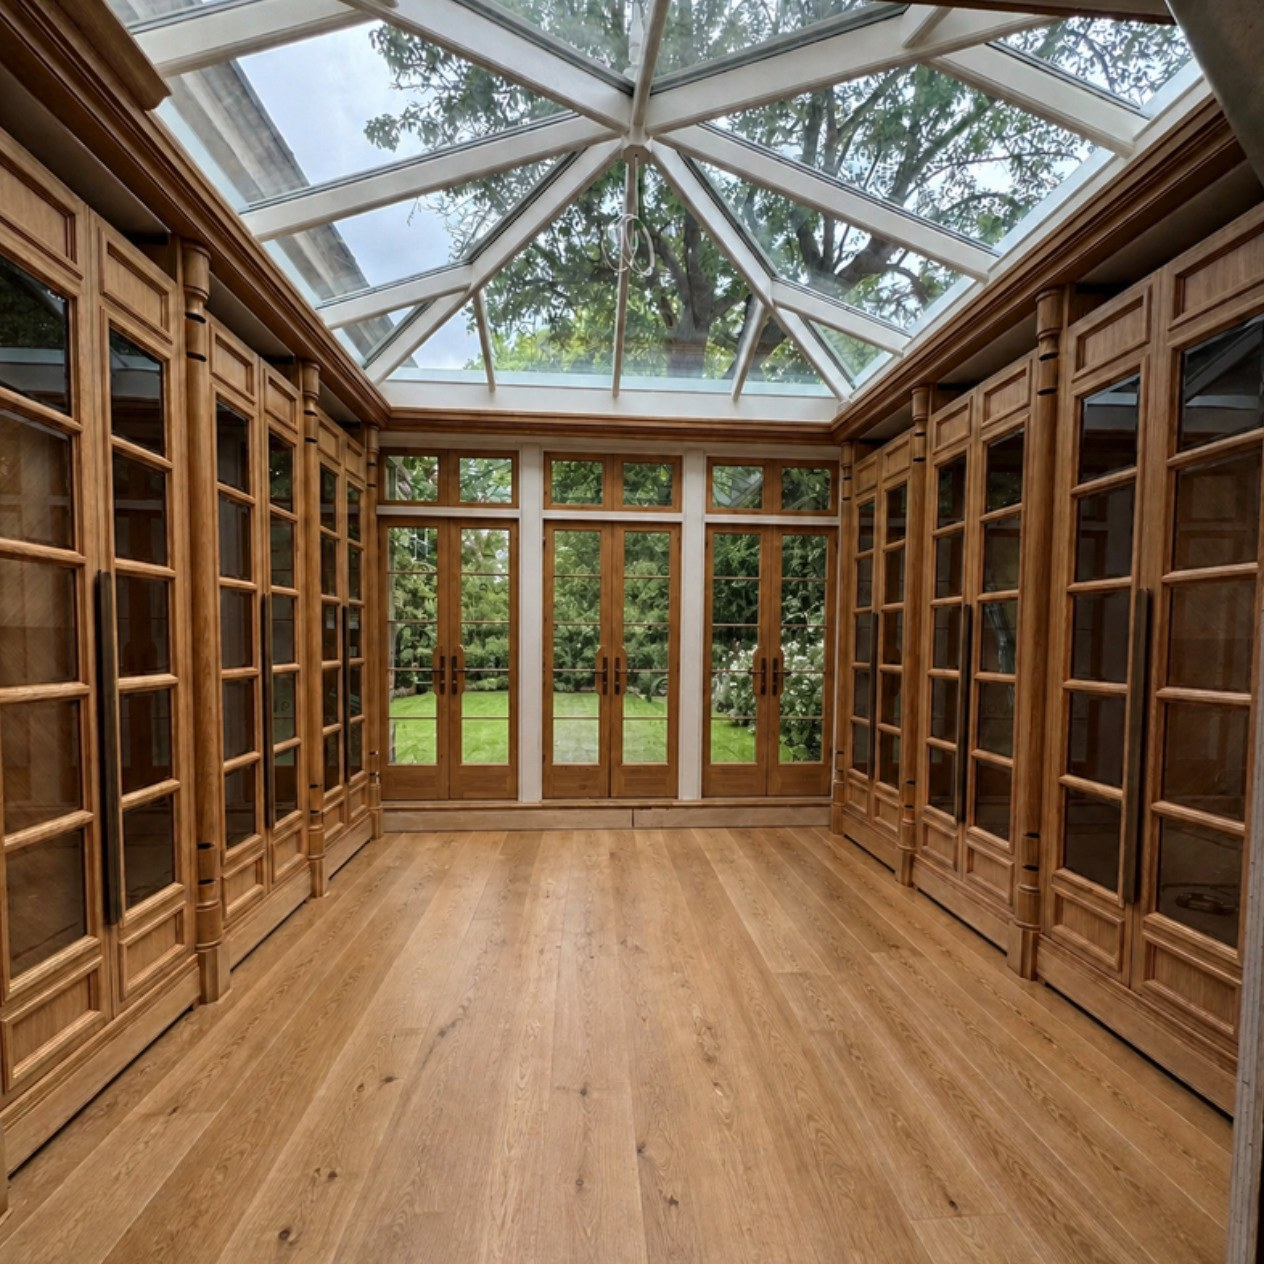
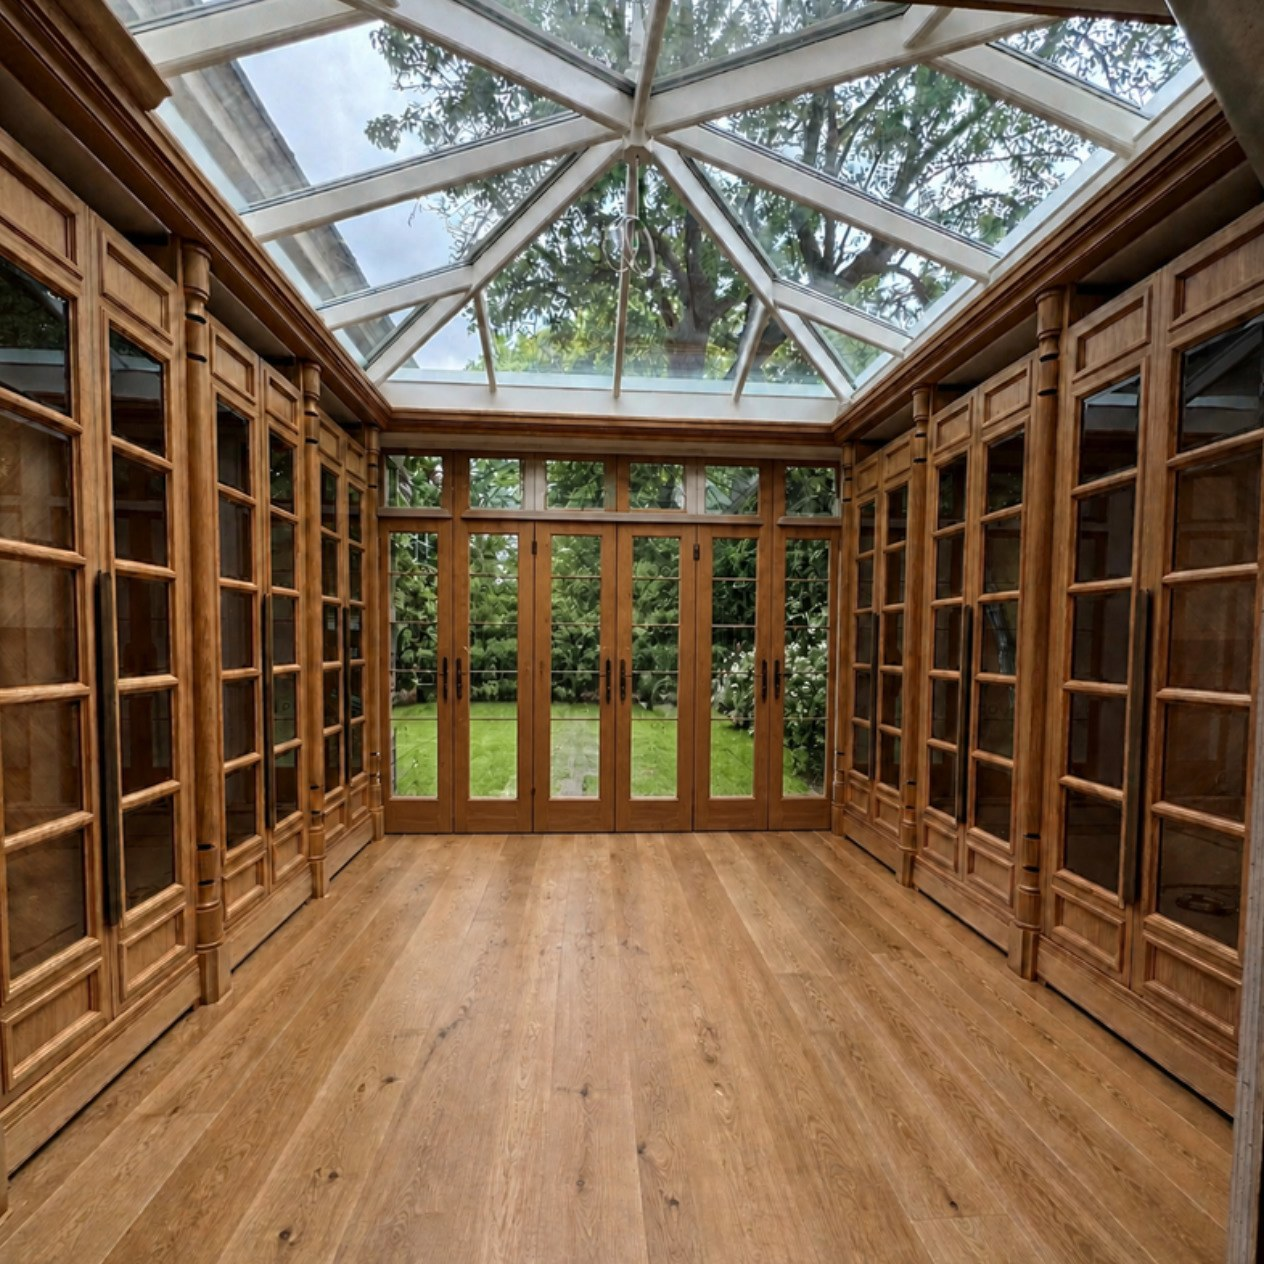
Conservatory photo: doors to floor level

diff --git a/index.html b/index.html
@@ -16,7 +16,7 @@
 <link rel="preconnect" href="https://fonts.googleapis.com">
 <link rel="preconnect" href="https://fonts.gstatic.com" crossorigin>
 <link rel="stylesheet" href="https://fonts.googleapis.com/css2?family=Montserrat:wght@400;500;600;700;800&display=swap">
-<link rel="stylesheet" href="/styles.css?v=26">
+<link rel="stylesheet" href="/styles.css?v=27">
 <link rel="icon" href="/assets/ethiks-logo.png">
 <script type="application/ld+json">{"@context": "https://schema.org", "@type": "GeneralContractor", "name": "Ethiks", "legalName": "Ethiks Site Services Ltd", "url": "https://www.ethiks.co.uk/", "email": "info@ethiks.co.uk", "areaServed": "GB", "vatID": "368202614", "description": "Shopfitting, fit-out, joinery and dry lining contractor working across the UK.", "address": {"@type": "PostalAddress", "addressLocality": "Sheffield", "addressRegion": "South Yorkshire", "addressCountry": "GB"}, "openingHours": "Mo-Fr 08:00-17:00"}</script>
 </head>
@@ -109,6 +109,6 @@
   </div>
 </footer>
 <div class="lb" role="dialog" aria-modal="true" aria-label="Photo" hidden><button class="x" aria-label="Close">×</button><button class="prev" aria-label="Previous photo">←</button><img alt=""><button class="next" aria-label="Next photo">→</button><p></p></div>
-<script src="/main.js?v=26" defer></script>
+<script src="/main.js?v=27" defer></script>
 </body>
 </html>

diff --git a/404.html b/404.html
@@ -16,7 +16,7 @@
 <link rel="preconnect" href="https://fonts.googleapis.com">
 <link rel="preconnect" href="https://fonts.gstatic.com" crossorigin>
 <link rel="stylesheet" href="https://fonts.googleapis.com/css2?family=Montserrat:wght@400;500;600;700;800&display=swap">
-<link rel="stylesheet" href="/styles.css?v=26">
+<link rel="stylesheet" href="/styles.css?v=27">
 <link rel="icon" href="/assets/ethiks-logo.png">
 <meta name="robots" content="noindex">
 </head>
@@ -45,6 +45,6 @@
   </div>
 </footer>
 <div class="lb" role="dialog" aria-modal="true" aria-label="Photo" hidden><button class="x" aria-label="Close">×</button><button class="prev" aria-label="Previous photo">←</button><img alt=""><button class="next" aria-label="Next photo">→</button><p></p></div>
-<script src="/main.js?v=26" defer></script>
+<script src="/main.js?v=27" defer></script>
 </body>
 </html>

diff --git a/about-us.html b/about-us.html
@@ -16,7 +16,7 @@
 <link rel="preconnect" href="https://fonts.googleapis.com">
 <link rel="preconnect" href="https://fonts.gstatic.com" crossorigin>
 <link rel="stylesheet" href="https://fonts.googleapis.com/css2?family=Montserrat:wght@400;500;600;700;800&display=swap">
-<link rel="stylesheet" href="/styles.css?v=26">
+<link rel="stylesheet" href="/styles.css?v=27">
 <link rel="icon" href="/assets/ethiks-logo.png">
 </head>
 <body>
@@ -77,6 +77,6 @@
   </div>
 </footer>
 <div class="lb" role="dialog" aria-modal="true" aria-label="Photo" hidden><button class="x" aria-label="Close">×</button><button class="prev" aria-label="Previous photo">←</button><img alt=""><button class="next" aria-label="Next photo">→</button><p></p></div>
-<script src="/main.js?v=26" defer></script>
+<script src="/main.js?v=27" defer></script>
 </body>
 </html>

diff --git a/contact-us.html b/contact-us.html
@@ -16,7 +16,7 @@
 <link rel="preconnect" href="https://fonts.googleapis.com">
 <link rel="preconnect" href="https://fonts.gstatic.com" crossorigin>
 <link rel="stylesheet" href="https://fonts.googleapis.com/css2?family=Montserrat:wght@400;500;600;700;800&display=swap">
-<link rel="stylesheet" href="/styles.css?v=26">
+<link rel="stylesheet" href="/styles.css?v=27">
 <link rel="icon" href="/assets/ethiks-logo.png">
 </head>
 <body>
@@ -66,6 +66,6 @@
   </div>
 </footer>
 <div class="lb" role="dialog" aria-modal="true" aria-label="Photo" hidden><button class="x" aria-label="Close">×</button><button class="prev" aria-label="Previous photo">←</button><img alt=""><button class="next" aria-label="Next photo">→</button><p></p></div>
-<script src="/main.js?v=26" defer></script>
+<script src="/main.js?v=27" defer></script>
 </body>
 </html>

diff --git a/fit-out.html b/fit-out.html
@@ -16,7 +16,7 @@
 <link rel="preconnect" href="https://fonts.googleapis.com">
 <link rel="preconnect" href="https://fonts.gstatic.com" crossorigin>
 <link rel="stylesheet" href="https://fonts.googleapis.com/css2?family=Montserrat:wght@400;500;600;700;800&display=swap">
-<link rel="stylesheet" href="/styles.css?v=26">
+<link rel="stylesheet" href="/styles.css?v=27">
 <link rel="icon" href="/assets/ethiks-logo.png">
 </head>
 <body>
@@ -85,6 +85,6 @@
   </div>
 </footer>
 <div class="lb" role="dialog" aria-modal="true" aria-label="Photo" hidden><button class="x" aria-label="Close">×</button><button class="prev" aria-label="Previous photo">←</button><img alt=""><button class="next" aria-label="Next photo">→</button><p></p></div>
-<script src="/main.js?v=26" defer></script>
+<script src="/main.js?v=27" defer></script>
 </body>
 </html>

diff --git a/privacy-policy.html b/privacy-policy.html
@@ -16,7 +16,7 @@
 <link rel="preconnect" href="https://fonts.googleapis.com">
 <link rel="preconnect" href="https://fonts.gstatic.com" crossorigin>
 <link rel="stylesheet" href="https://fonts.googleapis.com/css2?family=Montserrat:wght@400;500;600;700;800&display=swap">
-<link rel="stylesheet" href="/styles.css?v=26">
+<link rel="stylesheet" href="/styles.css?v=27">
 <link rel="icon" href="/assets/ethiks-logo.png">
 </head>
 <body>
@@ -62,6 +62,6 @@
   </div>
 </footer>
 <div class="lb" role="dialog" aria-modal="true" aria-label="Photo" hidden><button class="x" aria-label="Close">×</button><button class="prev" aria-label="Previous photo">←</button><img alt=""><button class="next" aria-label="Next photo">→</button><p></p></div>
-<script src="/main.js?v=26" defer></script>
+<script src="/main.js?v=27" defer></script>
 </body>
 </html>

diff --git a/projects.html b/projects.html
@@ -16,7 +16,7 @@
 <link rel="preconnect" href="https://fonts.googleapis.com">
 <link rel="preconnect" href="https://fonts.gstatic.com" crossorigin>
 <link rel="stylesheet" href="https://fonts.googleapis.com/css2?family=Montserrat:wght@400;500;600;700;800&display=swap">
-<link rel="stylesheet" href="/styles.css?v=26">
+<link rel="stylesheet" href="/styles.css?v=27">
 <link rel="icon" href="/assets/ethiks-logo.png">
 </head>
 <body>
@@ -58,6 +58,6 @@
   </div>
 </footer>
 <div class="lb" role="dialog" aria-modal="true" aria-label="Photo" hidden><button class="x" aria-label="Close">×</button><button class="prev" aria-label="Previous photo">←</button><img alt=""><button class="next" aria-label="Next photo">→</button><p></p></div>
-<script src="/main.js?v=26" defer></script>
+<script src="/main.js?v=27" defer></script>
 </body>
 </html>

diff --git a/register.html b/register.html
@@ -16,7 +16,7 @@
 <link rel="preconnect" href="https://fonts.googleapis.com">
 <link rel="preconnect" href="https://fonts.gstatic.com" crossorigin>
 <link rel="stylesheet" href="https://fonts.googleapis.com/css2?family=Montserrat:wght@400;500;600;700;800&display=swap">
-<link rel="stylesheet" href="/styles.css?v=26">
+<link rel="stylesheet" href="/styles.css?v=27">
 <link rel="icon" href="/assets/ethiks-logo.png">
 </head>
 <body>
@@ -63,6 +63,6 @@
   </div>
 </footer>
 <div class="lb" role="dialog" aria-modal="true" aria-label="Photo" hidden><button class="x" aria-label="Close">×</button><button class="prev" aria-label="Previous photo">←</button><img alt=""><button class="next" aria-label="Next photo">→</button><p></p></div>
-<script src="/main.js?v=26" defer></script>
+<script src="/main.js?v=27" defer></script>
 </body>
 </html>

diff --git a/residential.html b/residential.html
@@ -16,7 +16,7 @@
 <link rel="preconnect" href="https://fonts.googleapis.com">
 <link rel="preconnect" href="https://fonts.gstatic.com" crossorigin>
 <link rel="stylesheet" href="https://fonts.googleapis.com/css2?family=Montserrat:wght@400;500;600;700;800&display=swap">
-<link rel="stylesheet" href="/styles.css?v=26">
+<link rel="stylesheet" href="/styles.css?v=27">
 <link rel="icon" href="/assets/ethiks-logo.png">
 </head>
 <body>
@@ -77,6 +77,6 @@
   </div>
 </footer>
 <div class="lb" role="dialog" aria-modal="true" aria-label="Photo" hidden><button class="x" aria-label="Close">×</button><button class="prev" aria-label="Previous photo">←</button><img alt=""><button class="next" aria-label="Next photo">→</button><p></p></div>
-<script src="/main.js?v=26" defer></script>
+<script src="/main.js?v=27" defer></script>
 </body>
 </html>

diff --git a/uae.html b/uae.html
@@ -16,7 +16,7 @@
 <link rel="preconnect" href="https://fonts.googleapis.com">
 <link rel="preconnect" href="https://fonts.gstatic.com" crossorigin>
 <link rel="stylesheet" href="https://fonts.googleapis.com/css2?family=Montserrat:wght@400;500;600;700;800&display=swap">
-<link rel="stylesheet" href="/styles.css?v=26">
+<link rel="stylesheet" href="/styles.css?v=27">
 <link rel="icon" href="/assets/ethiks-logo.png">
 </head>
 <body>
@@ -64,6 +64,6 @@
   </div>
 </footer>
 <div class="lb" role="dialog" aria-modal="true" aria-label="Photo" hidden><button class="x" aria-label="Close">×</button><button class="prev" aria-label="Previous photo">←</button><img alt=""><button class="next" aria-label="Next photo">→</button><p></p></div>
-<script src="/main.js?v=26" defer></script>
+<script src="/main.js?v=27" defer></script>
 </body>
 </html>
